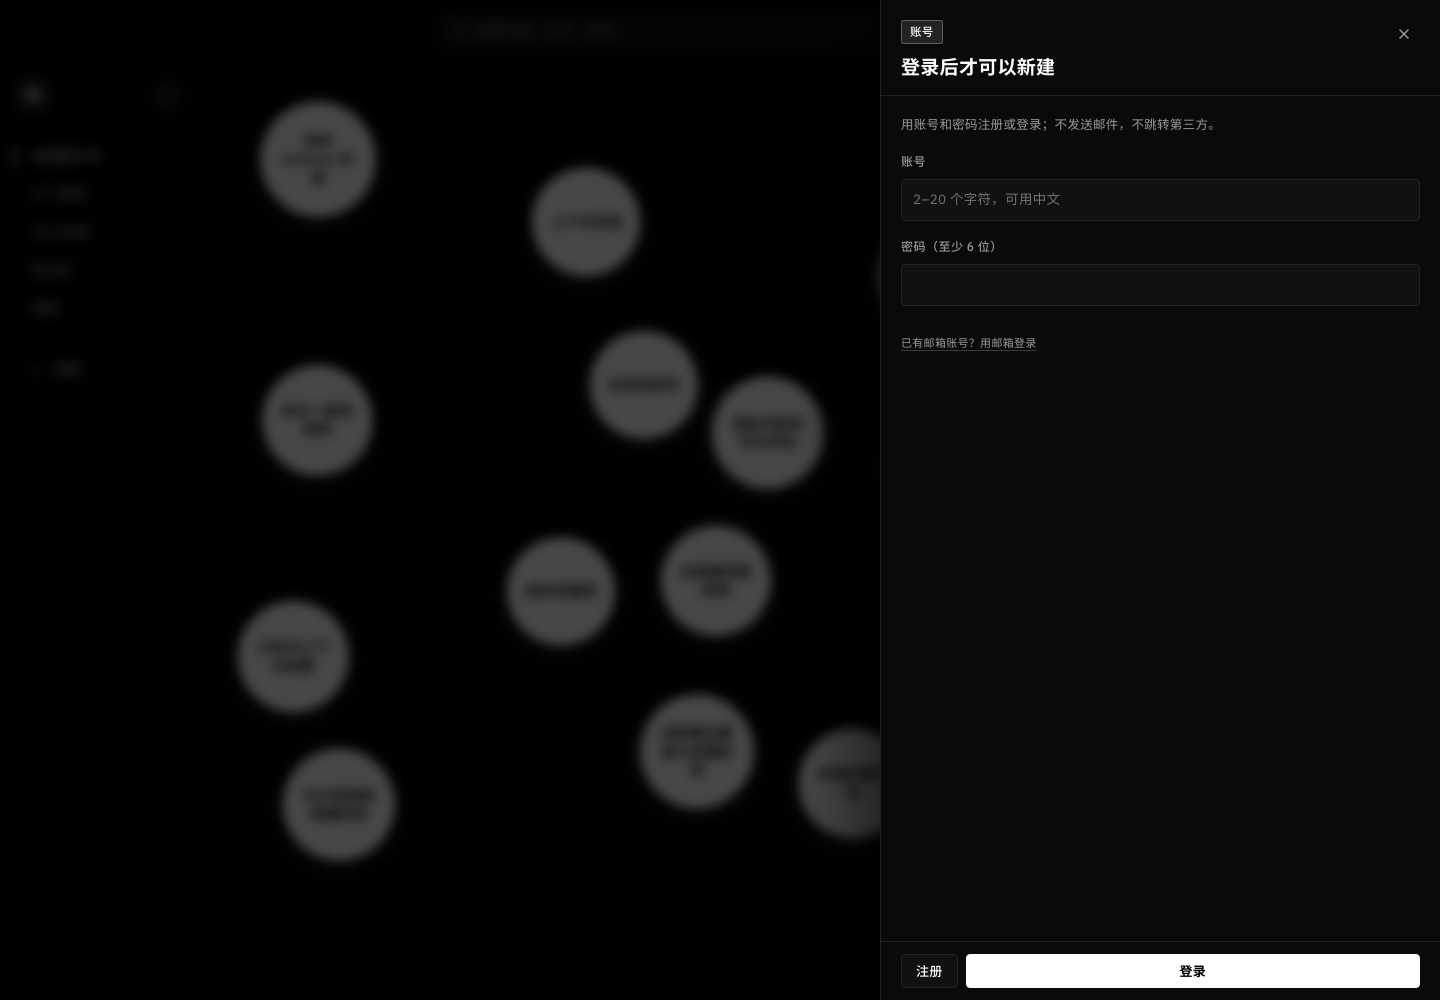
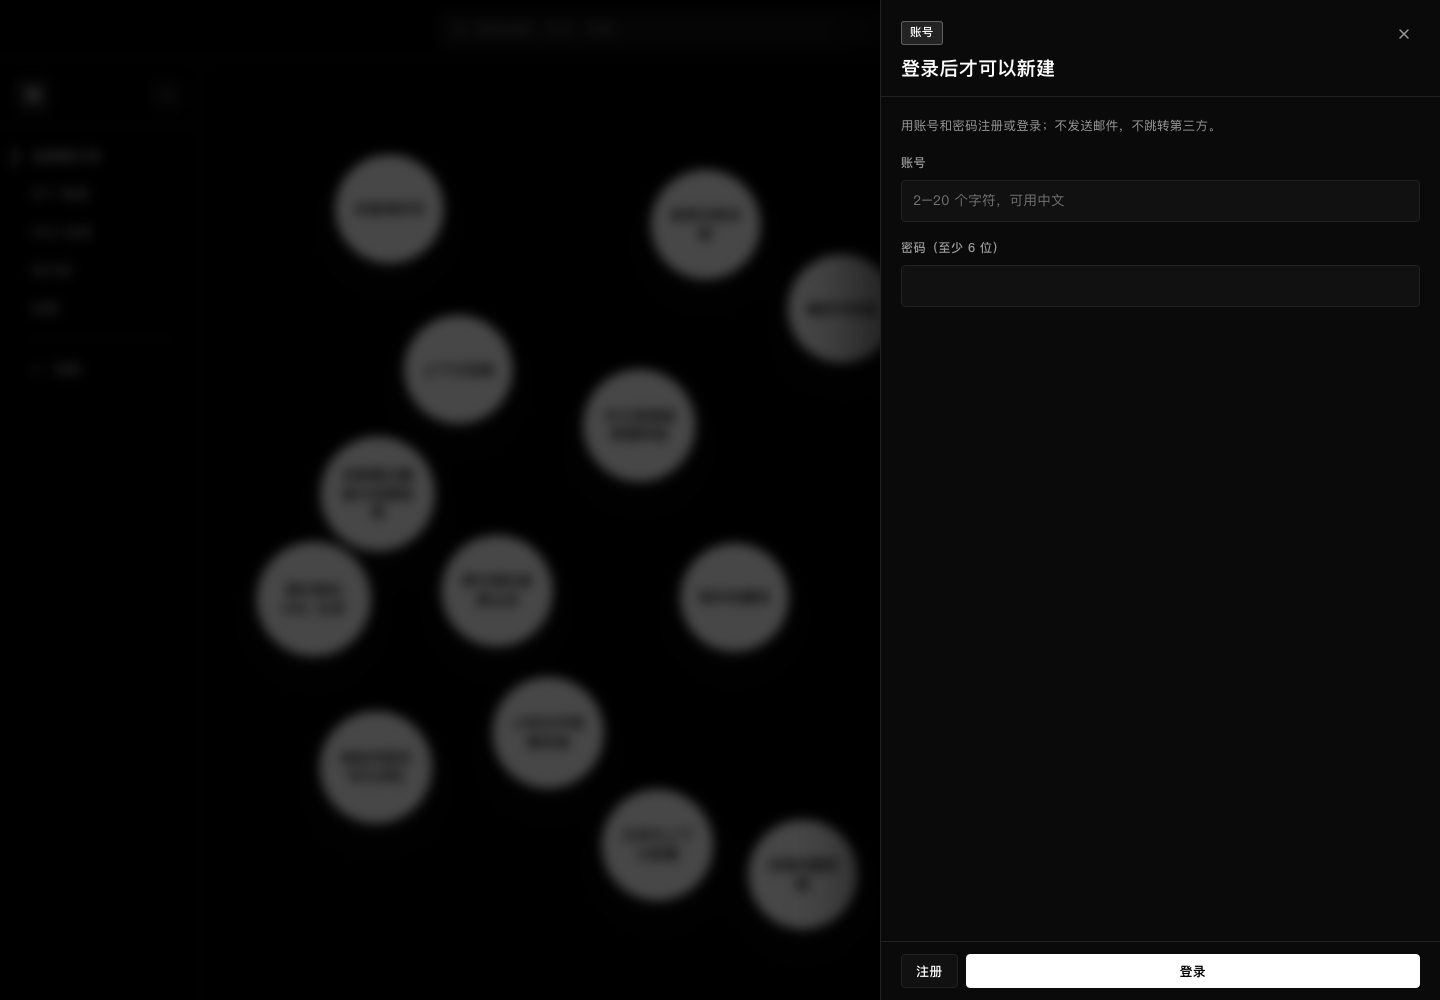
feat(auth): remove email login entirely from the UI

diff --git a/index.html b/index.html
@@ -704,7 +704,6 @@ body.rail-collapsed .rail-fab { opacity: 1; visibility: visible; transform: tran
 .auth-note { font-size: 12.5px; line-height: 1.7; color: var(--text-muted); margin: 0 0 16px; }
 
 .auth-note--warn { color: var(--text); }
-.auth-switch { margin-top: 12px; }
 .bubble--pending .bubble__disc { box-shadow: inset 0 0 0 1px rgba(255,255,255,.35); }
 .bubble--pending .bubble__title { opacity: .78; }
 
@@ -1091,7 +1090,6 @@ body.rail-collapsed .rail-fab { opacity: 1; visibility: visible; transform: tran
   const CLOUD_URL = 'https://zrmgnywkhhhrhzlohidp.supabase.co';
   const CLOUD_KEY = 'sb_publishable_-lPcawc0QmhldVcji4s6oQ_CQo7trIB';
   const CLOUD_ANON = 'eyJhbGciOiJIUzI1NiIsInR5cCI6IkpXVCJ9.eyJpc3MiOiJzdXBhYmFzZSIsInJlZiI6InpybWdueXdraGhocmh6bG9oaWRwIiwicm9sZSI6ImFub24iLCJpYXQiOjE3OTQ0ODYwODYsImV4cCI6MjExMDA2MjA4Nn0.AZBxt_TOPYpwoI8rwmNGVyuBlh_El_JS-vARPlinxf4';
-  const ADMIN_EMAIL = '3641605586@qq.com';
 
   /* ============================================================
      2. 示例库（34 条）
@@ -1980,7 +1978,6 @@ E 正确文档根本不在库里
   let cloudProfile = null;
   let cloudLibrary = [];
   let authBusy = false;
-  let authKind = 'username';
   let mailerAutoconfirm = null;
 
   function isAdmin() {
@@ -1991,8 +1988,7 @@ E 正确文档根本不在库里
     if (!cloudUser) return '';
     const meta = cloudUser.user_metadata || {};
     if (meta.username) return String(meta.username);
-    const email = (cloudProfile && cloudProfile.email) || cloudUser.email || '';
-    return String(email).split('@')[0] || '已登录';
+    return '账号';
   }
 
   function validUsername(name) {
@@ -2003,7 +1999,7 @@ E 正确文档根本不在库里
     const msg = (err && err.message) || '操作失败';
     if (/already registered|already been registered/i.test(msg)) return '这个账号已被注册，直接登录';
     if (/invalid login credentials/i.test(msg)) return '账号或密码不对';
-    if (/email not confirmed/i.test(msg)) return '这个账号还没完成邮箱确认；请用站内账号重新注册';
+    if (/email not confirmed/i.test(msg)) return '这个账号还没激活，请联系管理员';
     if (/password/i.test(msg) && /6/.test(msg)) return '密码至少 6 位';
     if (/rate limit|too many/i.test(msg)) return '操作太频繁，请稍后再试';
     return msg;
@@ -2158,7 +2154,6 @@ E 正确文档根本不在库里
       return;
     }
     if (!cloudUser) {
-      authKind = 'username';
       openDrawer('auth', null);
       return;
     }
@@ -2167,31 +2162,21 @@ E 正确文档根本不在库里
 
   function renderAuth() {
     setDrawerCat({ name: '账号', id: 'sft' });
-    const isEmail = authKind === 'email';
-    els.drawerTitle.textContent = isEmail ? '邮箱登录' : '登录后才可以新建';
-    const warn = (!isEmail && mailerAutoconfirm === false)
-      ? '<p class="auth-note auth-note--warn">站点还开着邮箱确认，直接注册暂不可用；管理员在 Supabase 关闭 Confirm email 后即可注册。</p>'
+    els.drawerTitle.textContent = '登录后才可以新建';
+    const warn = mailerAutoconfirm === false
+      ? '<p class="auth-note auth-note--warn">站点还没关闭 Supabase 的注册确认开关，直接注册暂不可用；管理员关闭 Confirm email 后即可注册。</p>'
       : '';
-    const note = isEmail
-      ? '<p class="auth-note">仅用于之前用邮箱注册的账号。新账号请用站内账号注册。</p>'
-      : '<p class="auth-note">用账号和密码注册或登录；不发送邮件，不跳转第三方。</p>' + warn;
-    const identity = isEmail
-      ? '<div class="field"><label class="field__label" for="auth-email">邮箱</label>' +
-        '<input class="input" id="auth-email" name="email" type="email" autocomplete="email" required placeholder="you@example.com" data-autofocus></div>'
-      : '<div class="field"><label class="field__label" for="auth-user">账号</label>' +
-        '<input class="input" id="auth-user" name="username" type="text" autocomplete="username" required minlength="2" maxlength="20" placeholder="2–20 个字符，可用中文" data-autofocus></div>';
-    const switchLink = isEmail
-      ? '<button class="link-btn auth-switch" type="button" data-action="auth-user">返回站内账号</button>'
-      : '<button class="link-btn auth-switch" type="button" data-action="auth-email">已有邮箱账号？用邮箱登录</button>';
-    els.drawerBody.innerHTML = note +
-      '<form class="edit-form" id="authForm" novalidate>' + identity +
+    els.drawerBody.innerHTML =
+      '<p class="auth-note">用账号和密码注册或登录；不发送邮件，不跳转第三方。</p>' + warn +
+      '<form class="edit-form" id="authForm" novalidate>' +
+        '<div class="field"><label class="field__label" for="auth-user">账号</label>' +
+        '<input class="input" id="auth-user" name="username" type="text" autocomplete="username" required minlength="2" maxlength="20" placeholder="2–20 个字符，可用中文" data-autofocus></div>' +
         '<div class="field"><label class="field__label" for="auth-pass">密码（至少 6 位）</label>' +
         '<input class="input" id="auth-pass" name="password" type="password" autocomplete="current-password" required minlength="6"></div>' +
-      '</form>' + switchLink;
-    els.drawerFoot.innerHTML = isEmail
-      ? '<button class="btn btn--primary" type="button" data-action="auth-login">登录</button>'
-      : '<button class="btn" type="button" data-action="auth-signup">注册</button>' +
-        '<button class="btn btn--primary" type="button" data-action="auth-login">登录</button>';
+      '</form>';
+    els.drawerFoot.innerHTML =
+      '<button class="btn" type="button" data-action="auth-signup">注册</button>' +
+      '<button class="btn btn--primary" type="button" data-action="auth-login">登录</button>';
   }
 
   function renderAccountPanel() {
@@ -2234,12 +2219,9 @@ E 正确文档根本不在库里
     if (authBusy) return;
     const form = $('#authForm');
     if (!form) return;
-    const isEmail = authKind === 'email';
-    const identity = String((isEmail ? form.email && form.email.value : form.username && form.username.value) || '').trim();
+    const identity = String((form.username && form.username.value) || '').trim();
     const password = String(form.password.value || '');
-    if (isEmail) {
-      if (!identity) { showToast('请填写邮箱', true); return; }
-    } else if (!validUsername(identity)) {
+    if (!validUsername(identity)) {
       showToast('账号 2–20 个字符，不能有空格或 @', true);
       return;
     }
@@ -2247,14 +2229,9 @@ E 正确文档根本不在库里
       showToast('密码至少 6 位', true);
       return;
     }
-    if (mode === 'signup' && isEmail) {
-      showToast('新账号请用站内账号注册', true);
-      return;
-    }
     authBusy = true;
     try {
-      let email = identity;
-      if (!isEmail) email = await usernameToEmail(identity);
+      const email = await usernameToEmail(identity);
       if (mode === 'signup') {
         if (mailerAutoconfirm !== true) await loadAuthSettings();
         if (mailerAutoconfirm !== true) {
@@ -3351,10 +3328,7 @@ E 正确文档根本不在库里
 
     els.newBtnTop.addEventListener('click', () => requestNew());
     if (els.accountBtn) {
-      els.accountBtn.addEventListener('click', () => {
-      if (!cloudUser) authKind = 'username';
-      openDrawer(cloudUser ? 'account' : 'auth', null);
-    });
+      els.accountBtn.addEventListener('click', () => openDrawer(cloudUser ? 'account' : 'auth', null));
     }
     if (els.reviewBtn) {
       els.reviewBtn.addEventListener('click', () => openDrawer('review', null));
@@ -3465,8 +3439,6 @@ E 正确文档根本不在库里
       else if (action === 'save') { saveEditor(); }
       else if (action === 'auth-login') { submitAuth('login'); }
       else if (action === 'auth-signup') { submitAuth('signup'); }
-      else if (action === 'auth-email') { authKind = 'email'; renderAuth(); }
-      else if (action === 'auth-user') { authKind = 'username'; renderAuth(); }
       else if (action === 'auth-logout') { signOut(); }
       else if (action === 'review-approve') { reviewPrompt(actionEl.dataset.id, 'approved'); }
       else if (action === 'review-reject') { reviewPrompt(actionEl.dataset.id, 'rejected'); }
